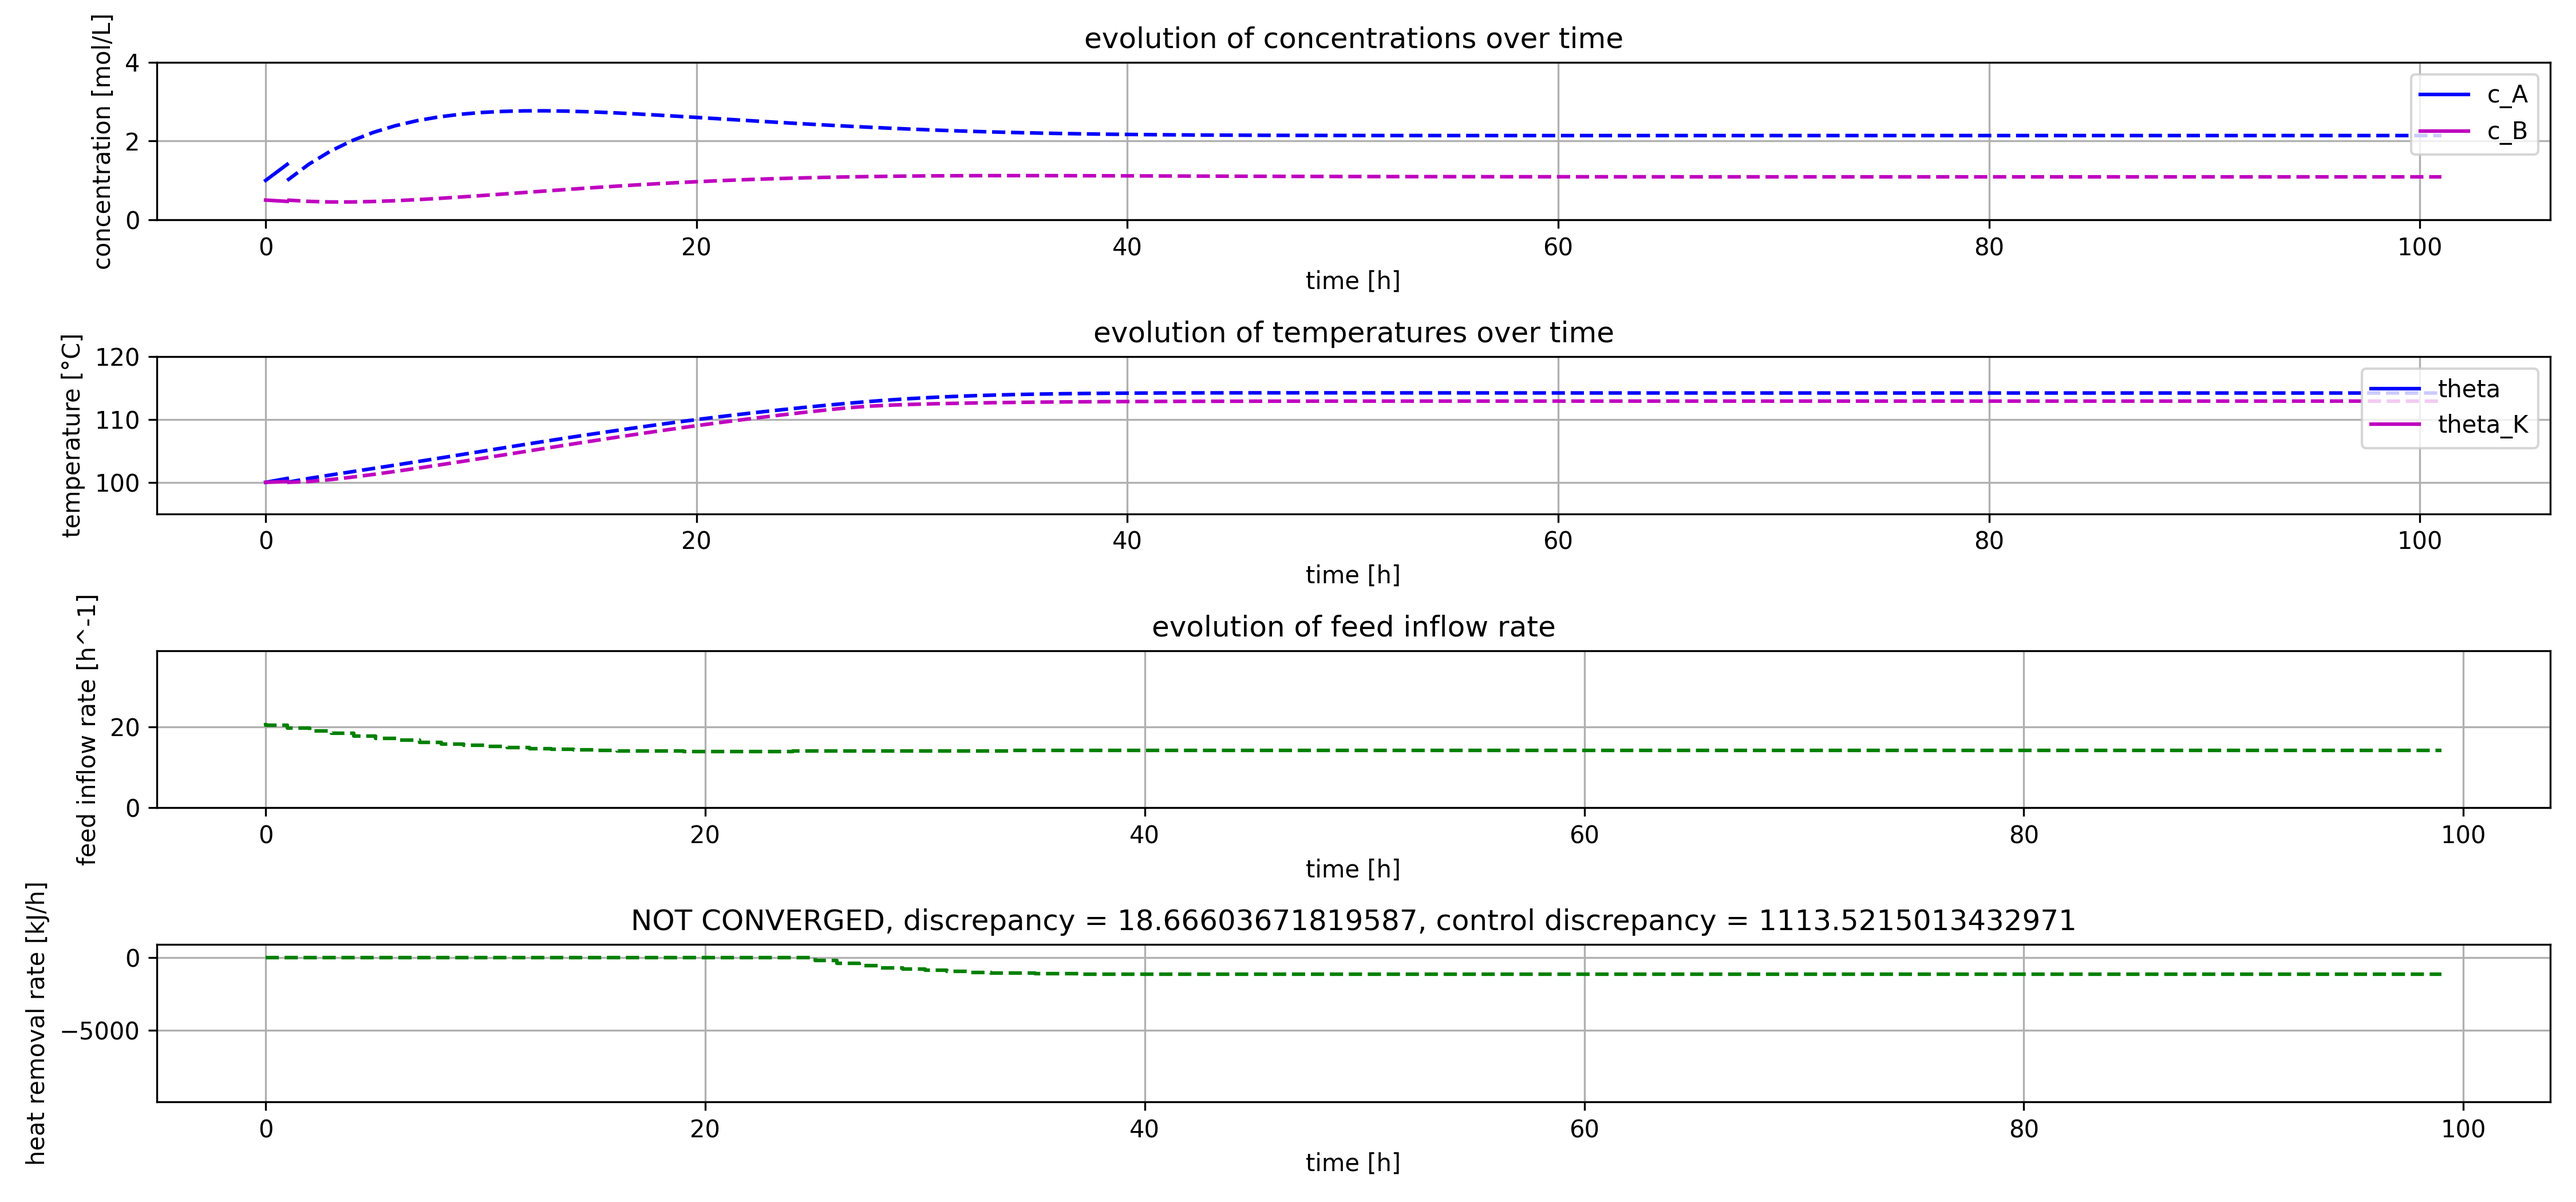
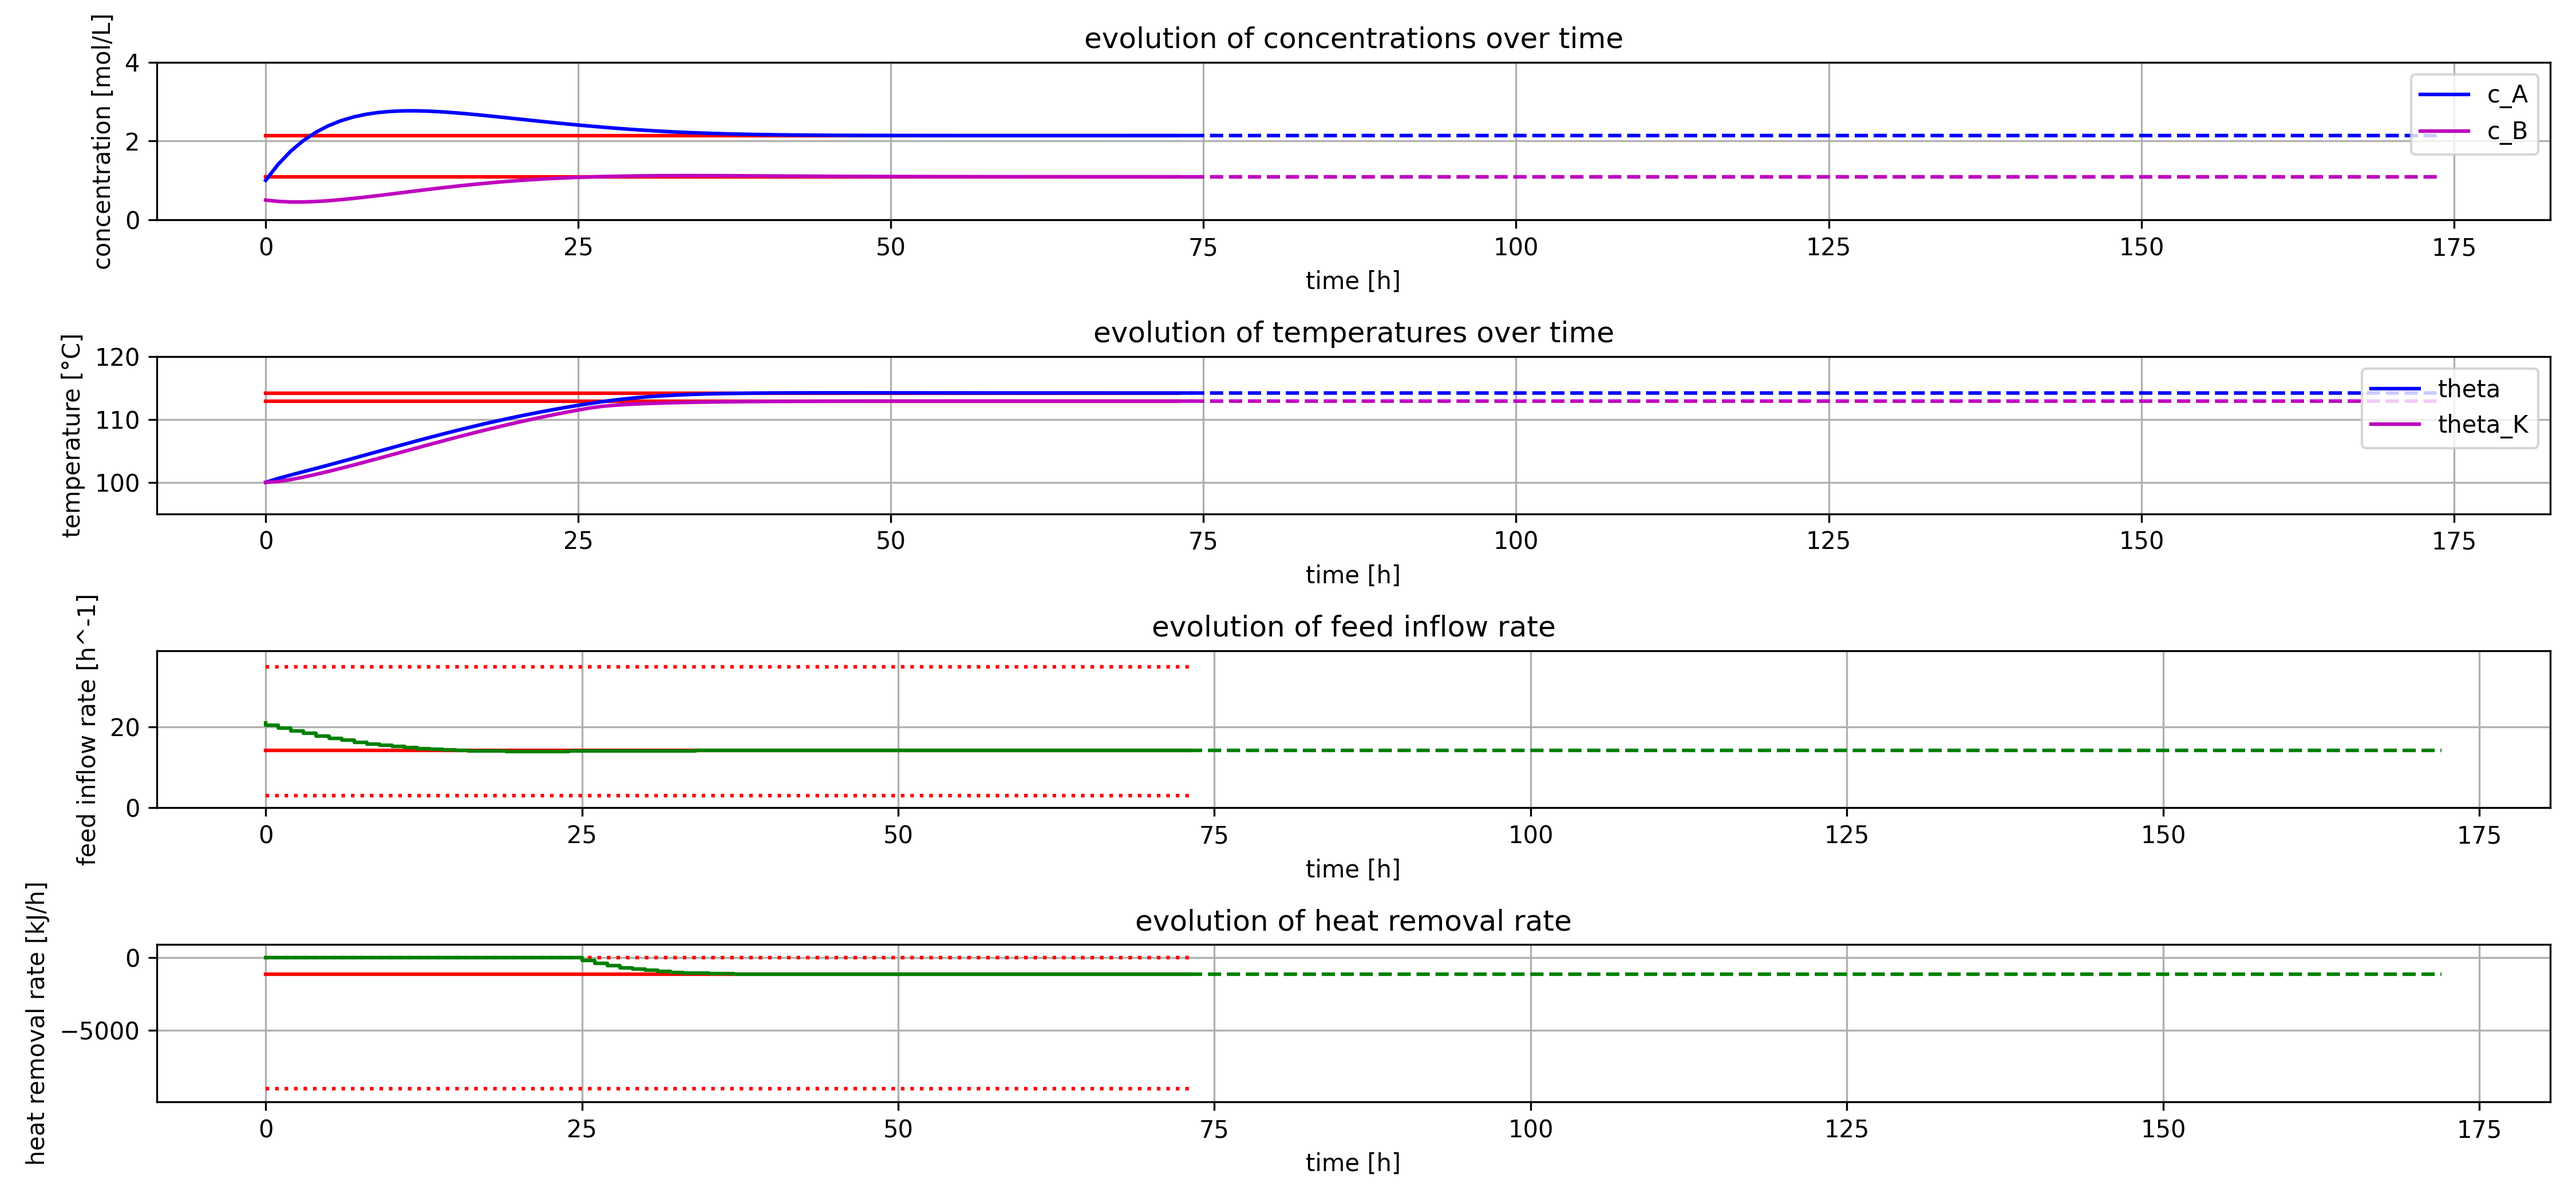
ok works bruh

diff --git a/new_cstr/simulation.py b/new_cstr/simulation.py
@@ -19,6 +19,7 @@ def run_closed_loop_simulation(
     convergence, and if there was any constraint violation
     """
     cstr = CSTR()
+    reference = np.concatenate((np.tile(cstr.xr, cstr.N + 1), np.tile(cstr.ur, cstr.N)))
 
     # data for the closed loop simulation
     constraints_violated = False
@@ -28,13 +29,12 @@ def run_closed_loop_simulation(
         2 * max_nbr_feedbacks + 1
     )  # time elapsed between two time points : times[i] = t_i-t_{i-1} and times[0]=0.0
 
-    sensitivites_computation_times = np.zeros(max_nbr_feedbacks + 1)
-    condensation_times = np.zeros(max_nbr_feedbacks + 1)
+    sensitivites_computation_times = np.zeros(max_nbr_feedbacks)
+    condensation_times = np.zeros(max_nbr_feedbacks)
     solve_times = np.zeros(max_nbr_feedbacks)
 
     # Get initial prediction off-line with great precision (use fully converged IP instead of RTI)
     prediction = cstr.initial_prediction(custom_x_init, RRLB)
-    print("prediction = {}".format(prediction))
 
     data[cstr.controls_idx, 0] = prediction[cstr.get_control_idx(0)]
 
@@ -51,14 +51,17 @@ def run_closed_loop_simulation(
 
     prob = osqp.OSQP()
     prob.setup(P, q, A, l, u, warm_start=True, verbose=False)
+    prob.warm_start(reference - prediction)
 
     times[1] = cstr.T / cstr.N / 1000.0
 
     # first feedback phase
     data[cstr.controls_idx, 1] = data[cstr.controls_idx, 0]
-    data[cstr.states_idx, 1] = cstr.f_special(
-        data[cstr.states_idx, 0], data[cstr.controls_idx, 0], times[1]
-    ).full().ravel()
+    data[cstr.states_idx, 1] = (
+        cstr.f_special(data[cstr.states_idx, 0], data[cstr.controls_idx, 0], times[1])
+        .full()
+        .ravel()
+    )
 
     start = time()
 
@@ -68,7 +71,7 @@ def run_closed_loop_simulation(
     res = prob.solve()
     if res.info.status != "solved":
         raise ValueError("OSQP did not solve the problem!")
-    prediction = res.x
+    prediction += res.x
 
     stop = time()
 
@@ -76,9 +79,11 @@ def run_closed_loop_simulation(
     solve_times[0] = 1000.0 * res.info.solve_time
 
     data[cstr.controls_idx, 2] = prediction[cstr.get_control_idx(0)]
-    data[cstr.states_idx, 2] = cstr.f_special(
-        data[cstr.states_idx, 1], data[cstr.controls_idx, 2], times[2]
-    ).full().ravel()
+    data[cstr.states_idx, 2] = (
+        cstr.f_special(data[cstr.states_idx, 1], data[cstr.controls_idx, 2], times[2])
+        .full()
+        .ravel()
+    )
 
     def converged(i: int) -> bool:
         return (
@@ -88,7 +93,7 @@ def run_closed_loop_simulation(
 
     i = 1
     while not converged(i) and i < max_nbr_feedbacks:
-        # preparation phase
+        # preparation phase ========================================================
         prediction = cstr.shift_prediction(prediction)
         (
             P,
@@ -103,16 +108,21 @@ def run_closed_loop_simulation(
         # instance each time
         prob = osqp.OSQP()
         prob.setup(P, q, A, l, u, warm_start=True, verbose=False)
+        prob.warm_start(reference - prediction)
 
         times[2 * i + 1] = cstr.T / cstr.N - times[2 * i]
 
-        # feedback phase
+        # feedback phase ===========================================================
         data[cstr.controls_idx, 2 * i + 1] = data[cstr.controls_idx, 2 * i]
-        data[cstr.states_idx, 2 * i + 1] = cstr.f_special(
-            data[cstr.states_idx, 2 * i],
-            data[cstr.controls_idx, 2 * i],
-            times[2 * i + 1],
-        ).full().ravel()
+        data[cstr.states_idx, 2 * i + 1] = (
+            cstr.f_special(
+                data[cstr.states_idx, 2 * i],
+                data[cstr.controls_idx, 2 * i],
+                times[2 * i + 1],
+            )
+            .full()
+            .ravel()
+        )
         start = time()
         l[: cstr.nx] = (
             data[cstr.states_idx, 2 * i + 1] - prediction[cstr.get_state_idx(0)]
@@ -131,11 +141,15 @@ def run_closed_loop_simulation(
         solve_times[i] = 1000.0 * res.info.solve_time
 
         data[cstr.controls_idx, 2 * i + 2] = prediction[cstr.get_control_idx(0)]
-        data[cstr.states_idx, 2 * i + 2] = cstr.f_special(
-            data[cstr.states_idx, 2 * i + 1],
-            data[cstr.controls_idx, 2 * i + 1],
-            times[2 * i + 2],
-        ).full().ravel()
+        data[cstr.states_idx, 2 * i + 2] = (
+            cstr.f_special(
+                data[cstr.states_idx, 2 * i + 1],
+                data[cstr.controls_idx, 2 * i + 1],
+                times[2 * i + 2],
+            )
+            .full()
+            .ravel()
+        )
 
         # if the simulation will stop at next iteration (either because it has converged or because we
         #  have reached the maximum number of iterations), we say what happened
@@ -159,6 +173,16 @@ def run_closed_loop_simulation(
 
     data = np.delete(data, list(range(2 * i + 1, data.shape[1])), axis=1)
     times = np.delete(times, list(range(2 * i + 1, times.shape[0])), axis=0)
+    solve_times = np.delete(solve_times, list(range(i, solve_times.shape[0])), axis=0)
+    sensitivites_computation_times = np.delete(
+        sensitivites_computation_times,
+        list(range(i, sensitivites_computation_times.shape[0])),
+        axis=0,
+    )
+    condensation_times = np.delete(
+        condensation_times, list(range(i, condensation_times.shape[0])), axis=0
+    )
+
     print("Final state: ", data[cstr.states_idx, -1])
     print("Final control: ", data[cstr.controls_idx, -1])
 
@@ -199,7 +223,7 @@ def run_closed_loop_simulation(
     # compute the performance measure ()total cost along the closed loop trajectory)
     total_cost = 0.0
     # np.sum(np.sqrt(np.sum((np.square(states - np.array(x_S))), axis=0)))
-    for k in range(2*i):
+    for k in range(0, 2 * i, 2):
         total_cost += (
             data[cstr.states_idx, k] @ cstr.Q @ data[cstr.states_idx, k]
             + data[cstr.controls_idx, k] @ cstr.R @ data[cstr.controls_idx, k]
@@ -207,14 +231,20 @@ def run_closed_loop_simulation(
         if not constraints_violated:
             for j in range(cstr.N):
                 if not (
-                    3.0 <= data[4+0, k] <= 35.0
-                    and -9000.0 <= data[4+1, k] <= 0.0
+                    3.0 <= data[4 + 0, k] <= 35.0
+                    and -9000.0 <= data[4 + 1, k] <= 0.0
                     and 98.0 <= data[2, k]
                     and 92.0 <= data[3, k]
                 ):
                     constraints_violated = True
-    total_cost += data[cstr.states_idx, 2*i] @ cstr.P @ data[cstr.states_idx, 2*i]
-    if not (98.0 <= data[2, 2*i] and 92.0 <= data[3, 2*i]):
+    total_cost += data[cstr.states_idx, 2 * i] @ cstr.P @ data[cstr.states_idx, 2 * i]
+    if not (98.0 <= data[2, 2 * i] and 92.0 <= data[3, 2 * i]):
         constraints_violated = True
 
-    return float(total_cost), constraints_violated, times
+    return (
+        float(total_cost),
+        constraints_violated,
+        sensitivites_computation_times,
+        condensation_times,
+        solve_times,
+    )

diff --git a/new_cstr/cstr.py b/new_cstr/cstr.py
@@ -48,7 +48,7 @@ class CSTR:
     M_x: np.ndarray
     M_u: np.ndarray
     delta = 10.0  # relaxation parameter
-    # delta = np.min(np.concatenate((d_x, d_u), axis=0))  # relaxation parameter
+    # delta = np.min(np.abs(np.concatenate((d_x, d_u), axis=0)))  # relaxation parameter
 
     # dynamics
     f: ca.Function
@@ -368,72 +368,24 @@ class CSTR:
         """
         Shift the prediction by one stage
         """
-        bruh1 = sparse.hstack(
-            [
-                sparse.csc_matrix((self.nx * self.N, self.nx)),
-                sparse.eye(self.nx * self.N),
-                sparse.csc_matrix((self.nx * self.N, self.nu * self.N)),
-            ],
-            format="csc",
+        result = np.zeros(self.nx * (self.N + 1) + self.nu * self.N)
+        # shifted old predictions
+        result[0 : self.nx * self.N] = prediction[self.nx : self.nx * (self.N + 1)]
+        result[
+            self.nx * (self.N + 1) : self.nx * (self.N + 1) + self.nu * (self.N - 1)
+        ] = prediction[self.nx * (self.N + 1) + self.nu :]
+        # append new control and state
+        result[self.nx * (self.N + 1) + self.nu * (self.N - 1) :] = (
+            self.K @ prediction[self.nx * self.N : self.nx * (self.N + 1)]
         )
-
-        bruh2 = sparse.vstack(
-            [
-                sparse.hstack(
-                    [
-                        sparse.csc_matrix(
-                            (self.nu * (self.N - 1), self.nx * (self.N + 1) + self.nu)
-                        ),
-                        sparse.eye(self.nu * (self.N - 1)),
-                    ],
-                    format="csc",
-                ),
-                sparse.hstack(
-                    [
-                        sparse.csc_matrix((self.nu, self.nx * self.N)),
-                        self.K,
-                        sparse.csc_matrix((self.nu, self.nu * self.N)),
-                    ],
-                    format="csc",
-                ),
-            ],
-            format="csc",
+        result[self.nx * self.N : self.nx * (self.N + 1)] = (
+            self.f(
+                result[self.nx * (self.N - 1) : self.nx * self.N],
+                result[self.nx * (self.N + 1) + self.nu * (self.N - 1) :],
+            )
+            .full()
+            .ravel()
         )
-
-        tpr1 = bruh1.dot(prediction)
-        tpr2 = bruh2.dot(prediction)
-        result = np.concatenate(
-            (
-                tpr1,
-                self.f(
-                    prediction[self.get_state_idx(self.N)],
-                    tpr2[-self.nu :],
-                )
-                .full()
-                .ravel(),
-                tpr2,
-            ),
-            axis=0,
-        )
-
-        # result = np.zeros(self.nx * (self.N + 1) + self.nu * self.N)
-        # # shifted old predictions
-        # result[0 : self.nx * self.N] = prediction[self.nx : self.nx * (self.N + 1)]
-        # result[
-        #     self.nx * (self.N + 1) : self.nx * (self.N + 1) + self.nu * (self.N - 1)
-        # ] = prediction[self.nx * (self.N + 1) + self.nu :]
-        # # append new control and state
-        # result[self.nx * (self.N + 1) + self.nu * (self.N - 1) :] = (
-        #     self.K @ prediction[self.nx * self.N : self.nx * (self.N + 1)]
-        # )
-        # result[self.nx * self.N : self.nx * (self.N + 1)] = (
-        #     self.f(
-        #         result[self.nx * (self.N - 1) : self.nx * self.N],
-        #         result[self.nx * (self.N + 1) + self.nu * (self.N - 1) :],
-        #     )
-        #     .full()
-        #     .ravel()
-        # )
         return result
 
     def preparation_phase(

diff --git a/new_cstr/main.py b/new_cstr/main.py
@@ -1,15 +1,39 @@
 import numpy as np
 from simulation import run_closed_loop_simulation
 
-total_cost, constraints_violated, times = run_closed_loop_simulation()
+(
+    total_cost,
+    constraints_violated,
+    sensitivites_computation_times,
+    condensation_times,
+    solve_times,
+) = run_closed_loop_simulation()
 print(
     "total_cost = {}, constraints_violated = {}".format(
         total_cost, constraints_violated
     )
 )
+total_times = solve_times + sensitivites_computation_times + condensation_times
+solve_times_percentage = solve_times / total_times
+sensitivites_computation_times_percentage = sensitivites_computation_times / total_times
+condensation_times_percentage = condensation_times / total_times
 
 print(
-    "solve times RRLB MPC :\n\tmean={}\n\tstd={}".format(
-        np.mean(times), np.std(times)
+    "solve times RRLB MPC :\n\tmean={}\n\tstd={}\n\taverage percentage of total time={}".format(
+        np.mean(solve_times), np.std(solve_times), np.mean(solve_times_percentage)
+    )
+)
+print(
+    "sensitivities computation times RRLB MPC :\n\tmean={}\n\tstd={}\n\taverage percentage of total time={}".format(
+        np.mean(sensitivites_computation_times),
+        np.std(sensitivites_computation_times),
+        np.mean(sensitivites_computation_times_percentage),
+    )
+)
+print(
+    "condensation times RRLB MPC :\n\tmean={}\n\tstd={}\n\taverage percentage of total time={}".format(
+        np.mean(condensation_times),
+        np.std(condensation_times),
+        np.mean(condensation_times_percentage),
     )
 )

diff --git a/cstr_package/cstr_comparison_nonrelaxed.py b/cstr_package/cstr_comparison_nonrelaxed.py
@@ -4,14 +4,13 @@ from cstr import *
 start = time()
 print("RRLB MPC : \n==========================")
 total_cost, iterations, constraints_violated, times_rrlb = run_closed_loop_simulation(
-    max_simulation_length=1,
     method=solve_rrlb_mpc,
     step_by_step=False,
     name="rrlb_mpc",
     solver="ipopt",
     opts={
         "print_time": 0,
-        "ipopt": {"sb": "yes", "print_level": 0, "max_cpu_time": 10.0},
+        "ipopt": {"sb": "yes", "print_level": 0, "max_iter":1, "max_cpu_time": 10.0},
     },
 )
 print(
@@ -23,7 +22,6 @@ print(
 
 print("MPC : \n==========================")
 total_cost, iterations, constraints_violated, times = run_closed_loop_simulation(
-    max_simulation_length=1,
     method=solve_mpc,
     step_by_step=False,
     name="mpc",

diff --git a/cstr_package/cstr.py b/cstr_package/cstr.py
@@ -630,11 +630,7 @@ def run_closed_loop_simulation(
         states_pred = np.concatenate(
             (c_A_pred, c_B_pred, theta_pred, theta_K_pred), axis=1
         ).T
-        if i == 0:
-            print("states_pred: ", states_pred.ravel("F"))
         controls_pred = np.concatenate((u_1_pred, u_2_pred), axis=1).T
-        if i == 0:
-            print("controls_pred: ", controls_pred.ravel("F"))
 
         # update the states and controls
         controls[:, i] = controls_pred[:, 0]
